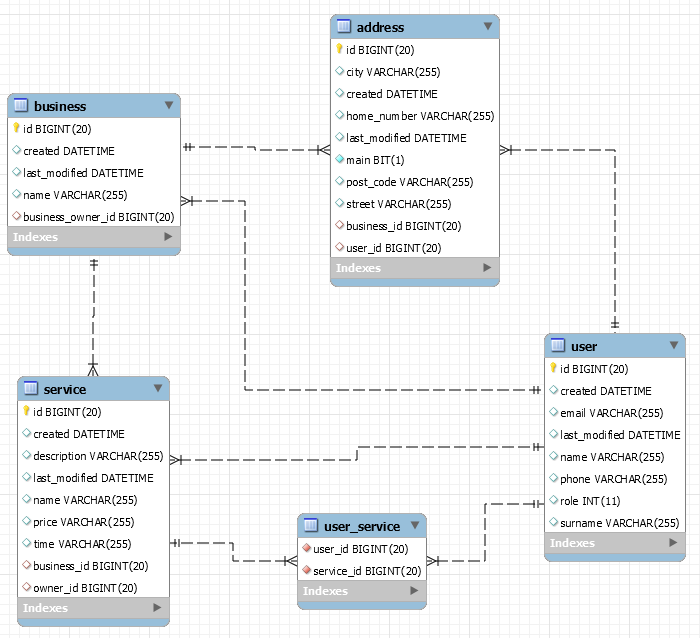
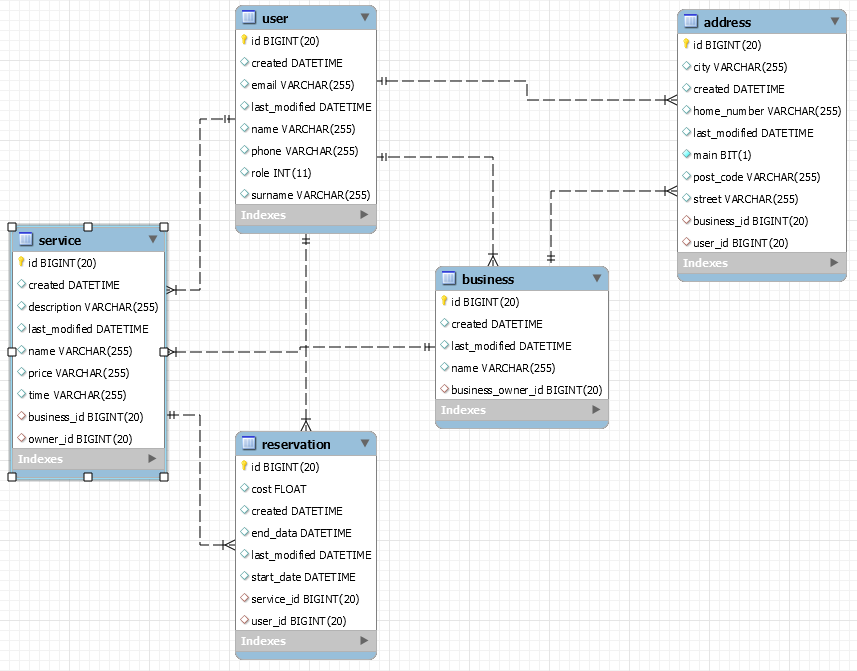
Add reservation model to Data

diff --git a/smarttime/src/main/java/com/smarttime/model/Service.java b/smarttime/src/main/java/com/smarttime/model/Service.java
@@ -1,6 +1,7 @@
 package com.smarttime.model;
 
 import com.fasterxml.jackson.annotation.JsonBackReference;
+import com.fasterxml.jackson.annotation.JsonManagedReference;
 
 import javax.persistence.*;
 import java.util.Date;
@@ -18,19 +19,22 @@ public class Service {
     private Date lastModified;
 
     private String name;
+    private String description;
+    private String time;
+    private String price;
+
     @ManyToOne(fetch = FetchType.LAZY, cascade = CascadeType.ALL)
     @JoinColumn(name = "owner_id")
     @JsonBackReference
     private User owner;
+
     @ManyToOne(fetch = FetchType.LAZY, cascade = CascadeType.ALL)
     @JoinColumn(name = "business_id")
     @JsonBackReference
     private Business business;
-    private String description;
-    private String time;
-    private String price;
-    @ManyToMany(mappedBy = "services", fetch = FetchType.LAZY, cascade = CascadeType.ALL)
-    @JsonBackReference
-    private List<User> users;
+
+    @OneToMany(mappedBy = "service", fetch = FetchType.LAZY, cascade = CascadeType.ALL)
+    @JsonManagedReference
+    private List<Reservation> reservations;
 
 }

diff --git a/smarttime/src/main/java/com/smarttime/model/Reservation.java b/smarttime/src/main/java/com/smarttime/model/Reservation.java
@@ -6,21 +6,19 @@ import javax.persistence.*;
 import java.util.Date;
 
 /**
- * Created by michal.berentowicz on 13.05.2017.
+ * Created by michal.berentowicz on 14.05.2017.
  */
 @Entity
-public class Address {
+public class Reservation {
     @Id
     @GeneratedValue
     private Long id;
     private Date created;
     private Date lastModified;
 
-    private boolean main;
-    private String city;
-    private String postCode;
-    private String street;
-    private String homeNumber;
+    private Date startDate;
+    private Date endData;
+    private Float cost;
 
     @ManyToOne(fetch = FetchType.LAZY, cascade = CascadeType.ALL)
     @JoinColumn(name = "user_id")
@@ -28,7 +26,7 @@ public class Address {
     private User user;
 
     @ManyToOne(fetch = FetchType.LAZY, cascade = CascadeType.ALL)
-    @JoinColumn(name = "business_id")
+    @JoinColumn(name = "service_id")
     @JsonBackReference
-    private Business business;
+    private Service service;
 }

diff --git a/smarttime/src/main/java/com/smarttime/model/User.java b/smarttime/src/main/java/com/smarttime/model/User.java
@@ -27,10 +27,9 @@ public class User {
     @JsonManagedReference
     private List<Address> addresses;
 
-    @ManyToMany(fetch = FetchType.LAZY, cascade = CascadeType.ALL)
-    @JoinTable(name = "user_service", joinColumns = {@JoinColumn(name = "user_id")}, inverseJoinColumns = {@JoinColumn(name = "service_id")})
+    @OneToMany(mappedBy = "user", fetch = FetchType.LAZY, cascade = CascadeType.ALL)
     @JsonManagedReference
-    private List<Service> services;
+    private List<Reservation> reservations;
 
     @OneToMany(mappedBy = "owner", fetch = FetchType.LAZY, cascade = CascadeType.ALL)
     @JsonManagedReference
